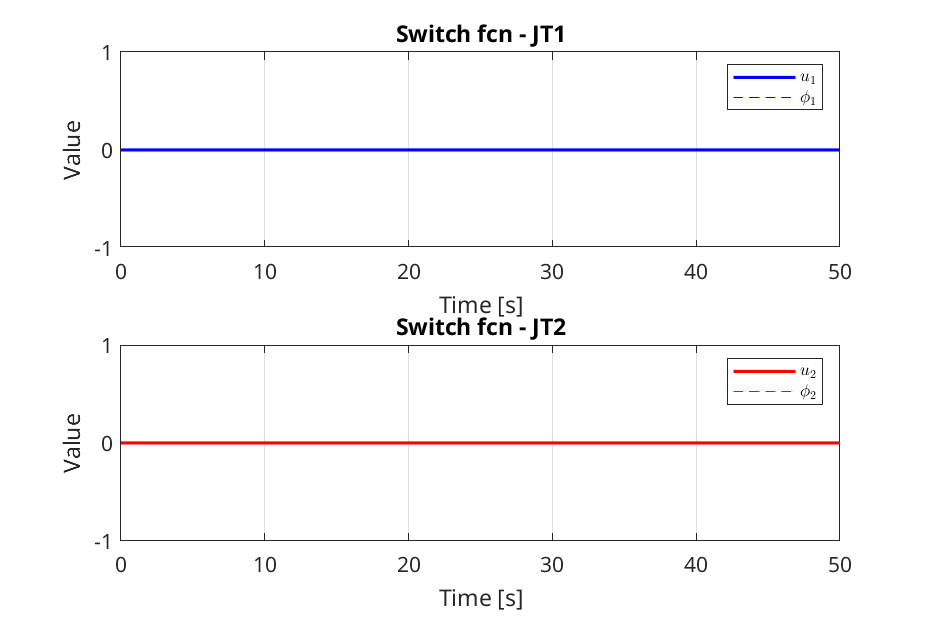
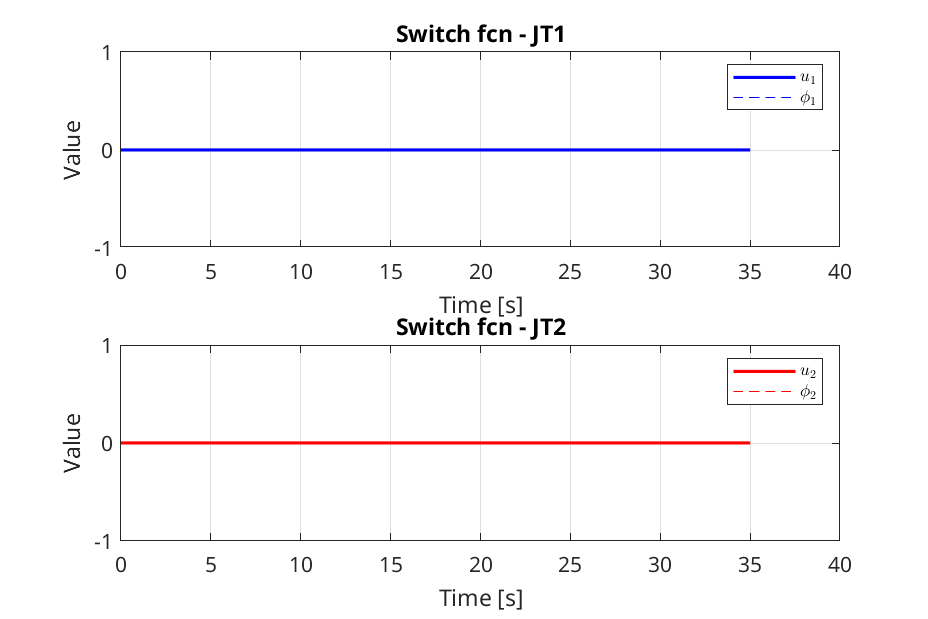
added support for custom filenames and QA

diff --git a/MPC/plotError.m b/MPC/plotError.m
@@ -1,50 +1,56 @@
-function fig = plotError(i, t, x, xref, ps)
+function fig = plotError(i, t, x, xref, ps, fname)
+    
+    err = abs(x(:,1:4)-xref);
+    fig = figure(i);
+    
+    % plot angular position error
+    subplot(3,1,1);
+    plot(t, err(:,1), 'b-', 'LineWidth', 1.5);
+    hold on;
+    grid;
+    plot(t, err(:,2), 'r-', 'LineWidth', 1.5);
+    
+    xlabel("Time [s]");
+    ylabel("Angle Error [rad]");
+    title("State error - angle");
+    labels = ["$$|x_1 - x_{ref1}|$$", "$$|x_2 - x_{ref2}|$$"];
+    legend(labels, Interpreter="latex");
+    
+    
+    % plot angular velocity error
+    subplot(3,1,2);
+    plot(t, err(:,3), 'b-', 'LineWidth', 1.5);
+    hold on;
+    grid;
+    plot(t, err(:,4), 'r-', 'LineWidth', 1.5);
+    
+    xlabel("Time [s]");
+    ylabel("Angular Velocity Error [rad/s]");
+    title("State error - angular velocity");
+    labels = ["$$|\dot{x}_1 - \dot{x}_{ref1}|$$", "$$|\dot{x}_2 - \dot{x}_{ref2}|$$"];
+    legend(labels, Interpreter="latex");
+    
+    % get cartesian pos
+    posref = simpleKin(xref, ps.J1, ps.J2);
+    pos = simpleKin(x, ps.J1, ps.J2);
+    poserr = sqrt((pos(:,1)-posref(:,1)).^2 + (pos(:,2)-posref(:,2)).^2);
+    
+    % plot cartesian error
+    subplot(3,1,3)
+    
+    plot(t, poserr, 'k-', 'LineWidth', 1.5);
+    hold on;
+    grid;
+    
+    xlabel("Time [s]");
+    ylabel("Error [m]");
+    title("Trajectory error");
 
-err = abs(x(:,1:4)-xref);
-fig = figure(i);
-
-% plot angular position error
-subplot(3,1,1);
-plot(t, err(:,1), 'b-', 'LineWidth', 1.5);
-hold on;
-grid;
-plot(t, err(:,2), 'r-', 'LineWidth', 1.5);
-
-xlabel("Time [s]");
-ylabel("Angle Error [rad]");
-title("State error - angle");
-labels = ["$$|x_1 - x_{ref1}|$$", "$$|x_2 - x_{ref2}|$$"];
-legend(labels, Interpreter="latex");
-
-
-% plot angular velocity error
-subplot(3,1,2);
-plot(t, err(:,3), 'b-', 'LineWidth', 1.5);
-hold on;
-grid;
-plot(t, err(:,4), 'r-', 'LineWidth', 1.5);
-
-xlabel("Time [s]");
-ylabel("Angular Velocity Error [rad/s]");
-title("State error - angular velocity");
-labels = ["$$|\dot{x}_1 - \dot{x}_{ref1}|$$", "$$|\dot{x}_2 - \dot{x}_{ref2}|$$"];
-legend(labels, Interpreter="latex");
-
-% get cartesian pos
-posref = simpleKin(xref, ps.J1, ps.J2);
-pos = simpleKin(x, ps.J1, ps.J2);
-poserr = sqrt((pos(:,1)-posref(:,1)).^2 + (pos(:,2)-posref(:,2)).^2);
-
-% plot cartesian error
-subplot(3,1,3)
-
-plot(t, poserr, 'k-', 'LineWidth', 1.5);
-hold on;
-grid;
-
-xlabel("Time [s]");
-ylabel("Error [m]");
-title("Trajectory error");
+    if nargin > 5
+        filename = sprintf("plots/err/%s.png",fname);
+    else
+        filename = sprintf("plots/err/%.2f_%.2f_to_%.2f_%.2f.png", x01, x02, xf1, xf2);
+    end
 
 end
 

diff --git a/MPC/mainMPC.m b/MPC/mainMPC.m
@@ -19,20 +19,23 @@ close all
 mode = "MPC";
 %mode = "std";
 
-horizon = 5;
+curve = "circle";
+horizon = 1;
 step = .1;
-time = 20;
+time = 8;
 sampling_freq = 10;
 center = [0 -1];
-radius = 0.5;
+radius = 0.2;
 R = 1e-2;
 Wx = 1e1;
 Wv = 1e-1;
 Wstat = 1e2;
 
+tname = sprintf("%s_T%d_h%d_s%.1f_%s_R%.2f", mode, time, horizon, step, curve, radius);
+
 %% get model parameters
 params = getDefaultParams(time,sampling_freq);
-[~, params] = getTrajectory('circle', params, center, radius);
+[~, params] = getTrajectory(curve, params, center, radius);
 params = getWeights(params,R,Wx,Wv,Wstat);
 
 %% optimize
@@ -45,12 +48,14 @@ end
 [uopt, ~] = MPC(params, horizon, step);
 [x,t,p,hu,pos] = getStats(params, uopt);
 
+[u_qa, e_qa, pos_qa] = getQA(uopt, x, params.xref, params)
+
 %% plot
 
-plotError(1, t, x, params.xref, params);
-%plotAdjoint(1,t,p,params);
-plotAngles(2,t,x,uopt,params);
-%plotPos(3, pos, params.posref, params);
-plotSwitch(5,t,uopt,hu,params);
+plotError(1, t, x, params.xref, params, tname);
+%plotAdjoint(1,t,p,params, tname);
+plotAngles(2,t,x,uopt,params, tname);
+plotPos(3, pos, params.posref, params, tname);
+plotSwitch(5,t,uopt,hu,params, tname);
 
-animate(6,pos, params);
+animate(6,pos, params, tname);

diff --git a/MPC/qsolve45.m b/MPC/qsolve45.m
@@ -24,10 +24,11 @@ function [t,x] = qsolve45(u, tf, p)
     
     %solve 
     for i = 1:Nt
+        xrh = 0.5*(p.xref(i,:) + p.xref(i+1,:));
         dx1 = qmodel(xtmp, u(i,:), p.J1, p.J2, p.xref(i,:), p.W, p.R);   tmp = xtmp+h/2*dx1; tt = tt+h/2;
-        dx2 = qmodel(tmp, u(i,:), p.J1, p.J2, p.xref(i,:), p.W, p.R);    tmp = xtmp+h/2*dx2; 
-        dx3 = qmodel(tmp, u(i,:), p.J1, p.J2, p.xref(i,:), p.W, p.R);    tmp = xtmp+h*dx3;   tt = tt+h/2;
-        dx4 = qmodel(tmp, u(i,:), p.J1, p.J2, p.xref(i,:), p.W, p.R);
+        dx2 = qmodel(tmp, u(i,:), p.J1, p.J2, xrh, p.W, p.R);    tmp = xtmp+h/2*dx2; 
+        dx3 = qmodel(tmp, u(i,:), p.J1, p.J2, xrh, p.W, p.R);    tmp = xtmp+h*dx3;   tt = tt+h/2;
+        dx4 = qmodel(tmp, u(i,:), p.J1, p.J2, p.xref(i+1,:), p.W, p.R);
 
         xtmp = xtmp + h/6*(dx1 + 2*dx2 + 2*dx3 + dx4);
 

diff --git a/MPC/plotSwitch.m b/MPC/plotSwitch.m
@@ -6,7 +6,7 @@
 %   uout - input to system (as array)
 %   Huout - switch function (as array)
 %   ps - model & system parameter struct
-function res = plotSwitch(id, tout, uout, Huout, ps)
+function res = plotSwitch(id, tout, uout, Huout, ps, fname)
     
     uout = [uout; uout(end,:)];
     f = figure(id);
@@ -40,7 +40,13 @@ function res = plotSwitch(id, tout, uout, Huout, ps)
     x02 = ps.x0(2);
     xf1 = ps.xf(1);
     xf2 = ps.xf(2);
-    filename = sprintf("plots/switch/%.2f_%.2f_to_%.2f_%.2f.png", x01, x02, xf1, xf2);
+    
+    if nargin > 5
+        filename = sprintf("plots/switch/%s.png",fname);
+    else
+        filename = sprintf("plots/switch/%.2f_%.2f_to_%.2f_%.2f.png", x01, x02, xf1, xf2);
+    end
+    
     saveas(id,filename);
  
     res = 0;

diff --git a/MPC/plotAngles.m b/MPC/plotAngles.m
@@ -1,5 +1,5 @@
 %plot angles in time domain
-function res = plotAngles(id, tout, xout, uout, ps)
+function res = plotAngles(id, tout, xout, uout, ps, fname)
 
     f = figure(id);
     f.Position = [600 0 1000 900];
@@ -49,7 +49,14 @@ function res = plotAngles(id, tout, xout, uout, ps)
     x02 = ps.x0(2);
     xf1 = ps.xf(1);
     xf2 = ps.xf(2);
-    filename = sprintf("plots/state/%.2f_%.2f_to_%.2f_%.2f.png", x01, x02, xf1, xf2);
+
+
+    if nargin > 5
+        filename = sprintf("plots/state/%s.png",fname);
+    else
+        filename = sprintf("plots/state/%.2f_%.2f_to_%.2f_%.2f.png", x01, x02, xf1, xf2);
+    end
+   
     saveas(id,filename);
 
     res = 0;

diff --git a/MPC/getQA.m b/MPC/getQA.m
@@ -1,0 +1,16 @@
+function [u_qa, e_qa, pos_qa] = getQA(u, x, xref, ps)
+    % uint is counted as rect approx - system is solved
+    % usting step approximation of ctrl
+    u_qa = 1/ps.sfreq*sum(sum(u.^2));
+
+    % eint is counted as trapezoid approx
+    err = (xref - x(:,1:4)).^2;
+    e_qa = 1/ps.sfreq*(sum(sum(err)) - 0.5*(sum(err(1,:)) + sum(err(end,:))));
+
+    % posint is counted as trapezoid approx
+    pos = simpleKin(x,ps.J1, ps.J2);
+    posref = simpleKin(xref, ps.J1, ps.J2);
+    poserr = sqrt((pos(:,1) - posref(:,1)).^2 + (pos(:,2) - posref(:,2)).^2);
+    pos_qa = 1/ps.sfreq*(sum(poserr) - 0.5*(poserr(1)+poserr(end)))/ps.T;
+
+end

diff --git a/MPC/plotAdjoint.m b/MPC/plotAdjoint.m
@@ -1,5 +1,5 @@
 %plot time travel parameters
-function res = plotAdjoint(id, tout, pout, ps)
+function res = plotAdjoint(id, tout, pout, ps, fname)
     
     f = figure(id);
     f.Position = [600 0 1000 600];
@@ -30,7 +30,13 @@ function res = plotAdjoint(id, tout, pout, ps)
     x02 = ps.x0(2);
     xf1 = ps.xf(1);
     xf2 = ps.xf(2);
-    filename = sprintf("plots/adj/%.2f_%.2f_to_%.2f_%.2f.png", x01, x02, xf1, xf2);
+
+    if nargin > 4
+        filename = sprintf("plots/adj/%s.png",fname);
+    else
+        filename = sprintf("plots/adj/%.2f_%.2f_to_%.2f_%.2f.png", x01, x02, xf1, xf2);
+    end
+    
     saveas(id,filename);
 
     res = 0;

diff --git a/MPC/animate.m b/MPC/animate.m
@@ -4,7 +4,7 @@
 %   id - id of figure
 %   pos - position of robot (as array)
 %   ps - sim & model parameter struct
-function res = animate(id, pos, ps)
+function res = animate(id, pos, ps, fname)
 
     N = length(pos(:,1));
     figure(id);
@@ -27,7 +27,11 @@ function res = animate(id, pos, ps)
     xf1 = ps.xf(1);
     xf2 = ps.xf(2);
 
-    filename = sprintf("gifs/%.2f_%.2f_to_%.2f_%.2f.gif", x01, x02, xf1, xf2);
+    if nargin > 3
+        filename = sprintf("gifs/%s.gif",fname);
+    else
+        filename = sprintf("gifs/%.2f_%.2f_to_%.2f_%.2f.gif", x01, x02, xf1, xf2);
+    end
 
     for i = 1:1:N
         trackline.XData = pos(1:i,1);

diff --git a/MPC/plotPos.m b/MPC/plotPos.m
@@ -1,6 +1,6 @@
 
 %plot trajectory in 2D plane
-function res = plotPos(id, pos, posref, ps)
+function res = plotPos(id, pos, posref, ps, fname)
     
     f = figure(id);
     f.Position = [0 600 600 400];
@@ -22,7 +22,13 @@ function res = plotPos(id, pos, posref, ps)
     x02 = ps.x0(2);
     xf1 = ps.xf(1);
     xf2 = ps.xf(2);
-    filename = sprintf("plots/pos/%.2f_%.2f_to_%.2f_%.2f.png", x01, x02, xf1, xf2);
+    
+    if nargin > 4
+        filename = sprintf("plots/pos/%s.png",fname);
+    else
+        filename = sprintf("plots/pos/%.2f_%.2f_to_%.2f_%.2f.png", x01, x02, xf1, xf2);
+    end
+    
     %saveas(id,filename);
 
     res = 0;

diff --git a/MPC/plotCost.m b/MPC/plotCost.m
@@ -1,5 +1,5 @@
 %plot cost
-function res = plotCost(id, Qstat, ps)
+function res = plotCost(id, Qstat, ps, fname)
     
     f = figure(id);
     f.Position = [0 0 600 400];
@@ -14,8 +14,12 @@ function res = plotCost(id, Qstat, ps)
     x02 = ps.x0(2);
     xf1 = ps.xf(1);
     xf2 = ps.xf(2);
-    filename = sprintf("plots/cost/%.2f_%.2f_to_%.2f_%.2f.png", x01, x02, xf1, xf2);
+    if nargin > 3
+        filename = sprintf("plots/cost/%s.png",fname);
+    else
+        filename = sprintf("plots/cost/%.2f_%.2f_to_%.2f_%.2f.png", x01, x02, xf1, xf2);
+    end
     saveas(id,filename);
- 
+    
     res = 0;
 end

diff --git a/MPC/fminconGrad.m b/MPC/fminconGrad.m
@@ -5,10 +5,10 @@ function [uout,Qstat] = fminconGrad(ps)
     
     options = optimoptions('fmincon');
     options.SpecifyObjectiveGradient = true;
-    options.MaxFunctionEvaluations = 1e5;
+    options.MaxFunctionEvaluations = 1e3;
     options.Display = 'off';
-    options.OptimalityTolerance = eps;
-    options.StepTolerance = eps;
+    options.OptimalityTolerance = 1e-4;
+    options.StepTolerance = 1e-7;
     options.Algorithm = 'interior-point';
 
     uopt = fmincon(Q,ps.u,ps.A,ps.b,[],[],[],[],[],options);

diff --git a/MPC/getTrajectory.m b/MPC/getTrajectory.m
@@ -46,8 +46,8 @@ switch mode
         pos(sf*T/2+1:end,2) = center(2) - radius + 4*radius*t(1:sf*T/2)/T;
 
     case 'wobble'
-        pos(:,1) = center(1) + radius*cos(w*t) + radius/10*cos(10*w*t);
-        pos(:,2) = center(2) + radius*sin(w*t) + radius/10*sin(10*w*t);
+        pos(:,1) = center(1) + radius*cos(w*t).*(1 + 0.1*sin(10*w*t));
+        pos(:,2) = center(2) + radius*sin(w*t).*(1 + 0.1*sin(10*w*t));
 
     case 'chirp'
         pos(:,1) = center(1) + radius*cos(10*w*t.^2/T);
